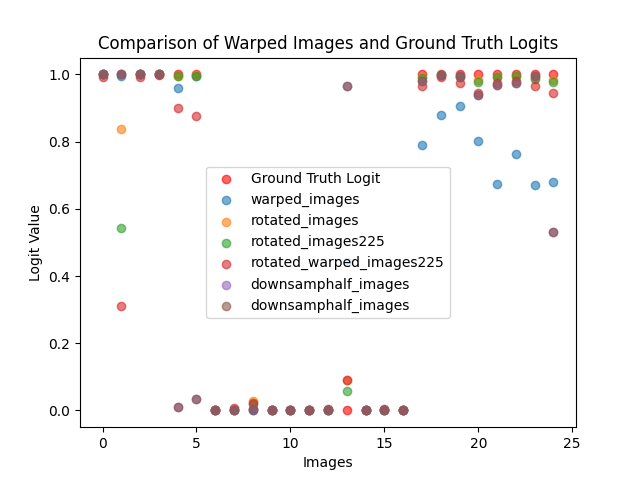
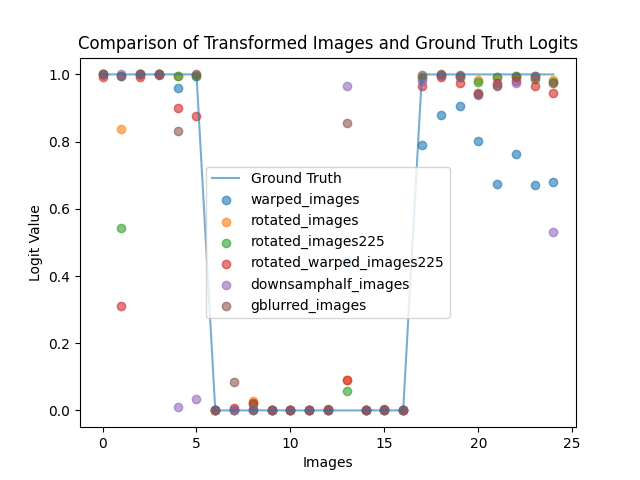
push

diff --git a/plot.py b/plot.py
@@ -36,16 +36,17 @@ def plot_images_with_gt(gt: pd.DataFrame, df_list, process_type_list) -> None:
     gt_logit = gt['logit'].to_list()
 
     _, ax = plt.subplots()
-    ax.scatter(image_name, gt_logit, label='Ground Truth Logit', color='red', alpha=0.6)
+    ax.plot(image_name, gt_logit, label='Ground Truth', alpha=0.6)
     for i in range(len(df_list)):
         logit = df_list[i]['logit'].to_list()
         ax.scatter(image_name, logit, label=process_type_list[i], alpha=0.6)
     ax.set_xlabel('Images')
     ax.set_ylabel('Logit Value')
-    ax.set_title('Comparison of Warped Images and Ground Truth Logits')
+    ax.set_title('Comparison of Transformed Images and Ground Truth Logits')
     ax.legend()
 
-csv_list = ['out.warped_images.csv','out.rotated_images.csv','out.rotated_images225.csv','out.rotated_warped_images225.csv', 'out.downsamphalf_images.csv', 'out.downsamphalf_images.csv']
+csv_list = ['out.warped_images.csv','out.rotated_images.csv','out.rotated_images225.csv','out.rotated_warped_images225.csv', 'out.downsamphalf_images.csv', 
+            'out.gblurred_images.csv']
 ground_truth = pd.read_csv('out.example_images.csv')
 ground_truth = process_dataframe(ground_truth)
 ground_truth['logit'] = ground_truth['logit'].round()
